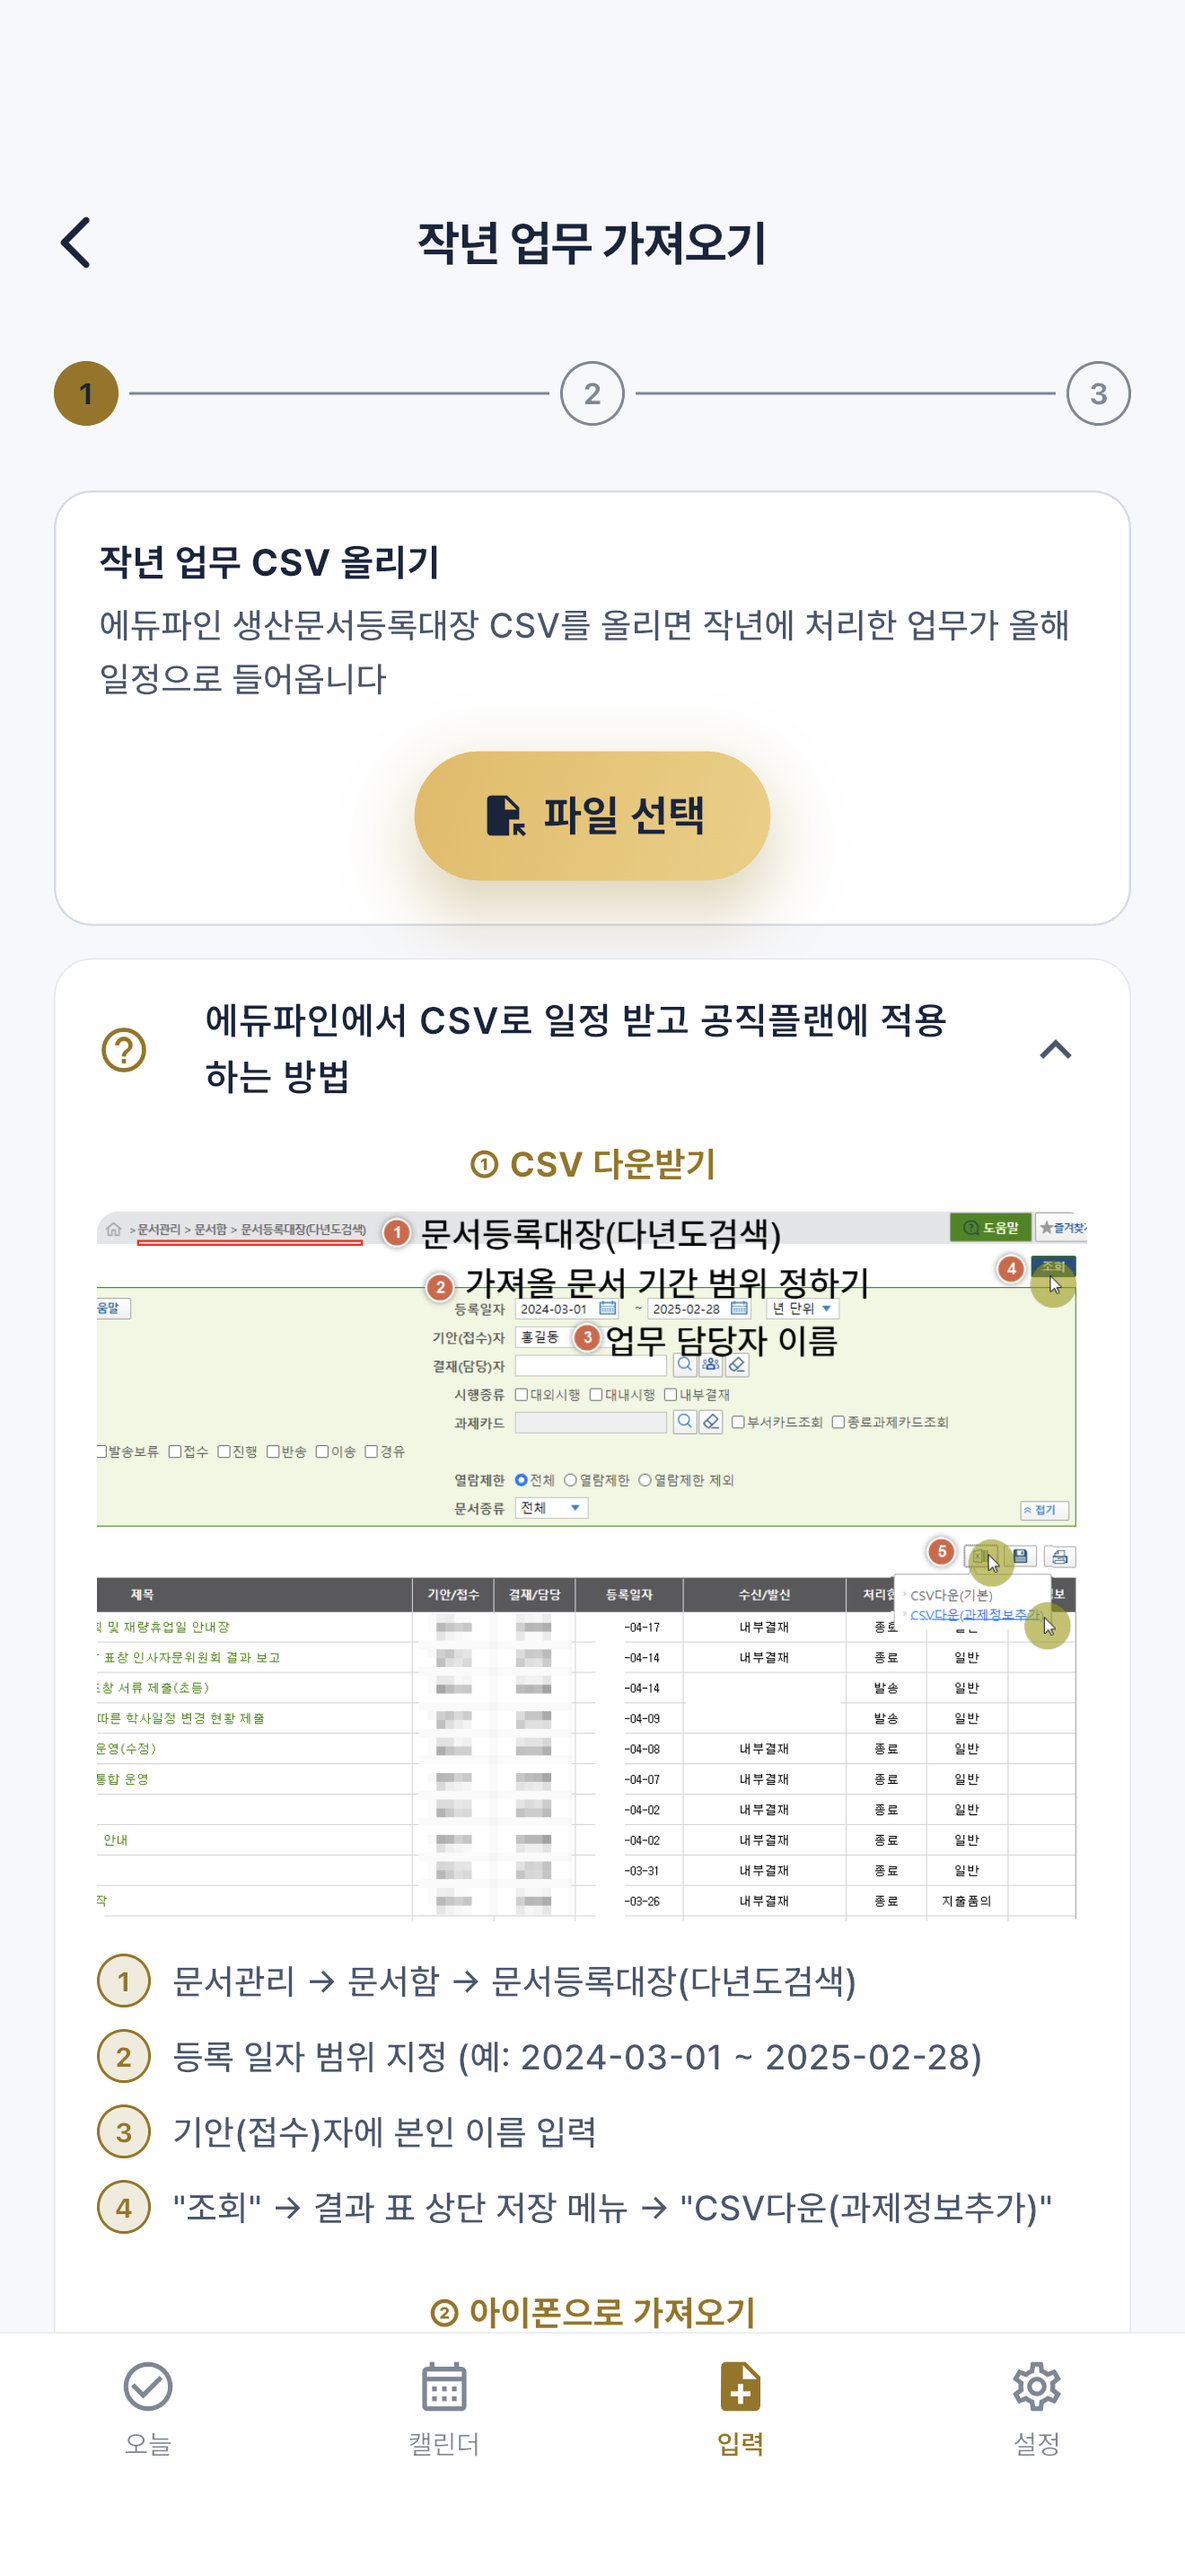
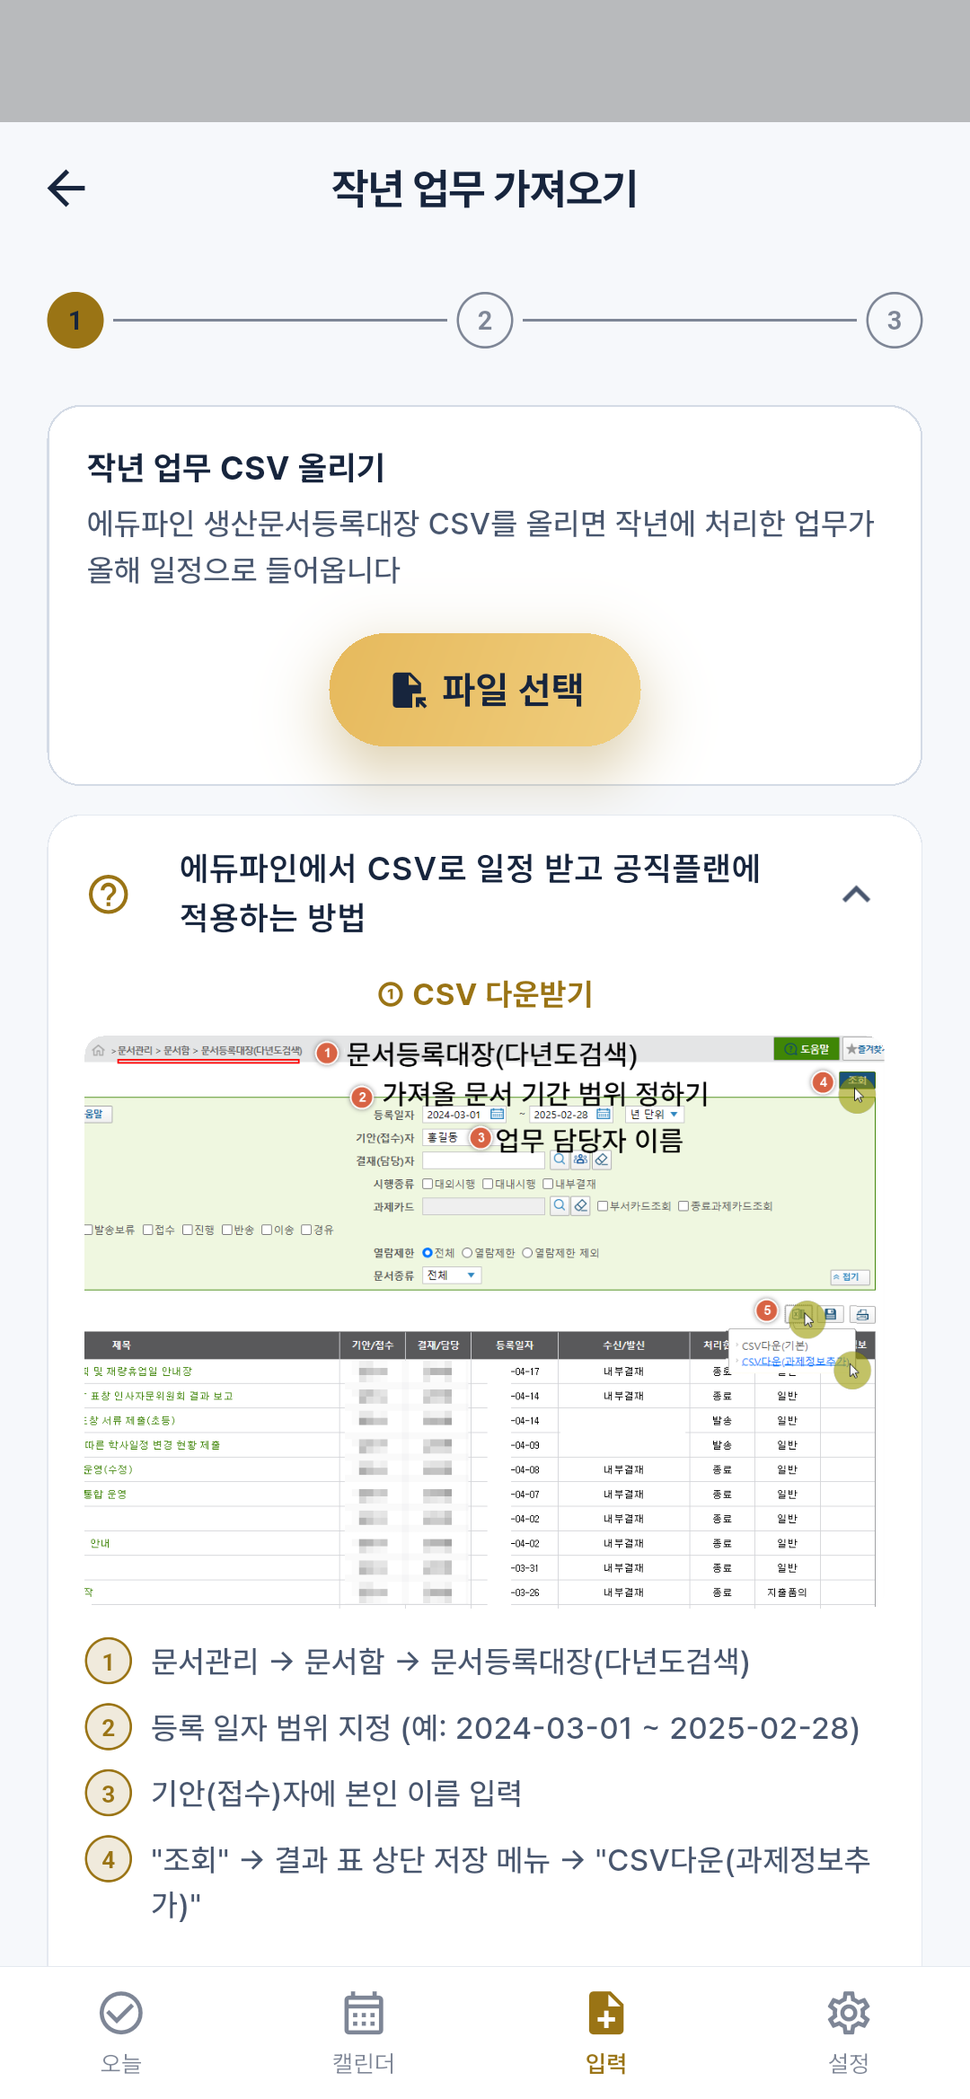
fix(screenshots): 안드로이드에서 촬영이 되게 하고 Play용 6장을 다시 찍는다
콘솔의 스크린샷이 옛 화면이라 다시 찍으려는데, screenshot_test.dart가
안드로이드에서 아예 돌지 않았다. convertFlutterSurfaceToImage()를 화면마다
여섯 번 부르는데 두 번째 호출이 `Surface already converted to an image` assert다.
iOS에서는 no-op이라 여섯 번 불러도 조용해서 오래 숨어 있었다 —
2026-08-01-android-release-design.md가 "이미 Android에서 돈다"고 적어둔 것은
실제로 돌려보지 않은 판단이었다.

prepareSurface()로 한 번만 부르게 잠갔다. 처음 고칠 때 헬퍼를 넣은 뒤 전체
치환을 돌려 헬퍼가 자기 자신을 부르게 만들었고, 71548프레임 Stack Overflow로
드러났다(analyze는 통과한다 — 문법적으로 정상인 재귀다).

Play는 iOS와 규격이 다르다. 최대 변이 최소 변의 2배를 넘을 수 없는데 Pixel 7
캡처는 1080x2337로 2.16배다. 세로를 자르면 헤더나 탭바가 날아가므로 좌우를
가장자리 색(#F6F8FB)으로 채워 9:16으로 맞췄다. 상단 136px 회색 띠(상태바 자리)는
잘라내고, RGBA를 RGB로 바꿨다(Play는 알파 미포함 24비트 PNG를 요구한다).

결과: docs/screenshots/play/ 6장, 1238x2201, 비율 1.778, RGB.
docs/screenshots/의 원본도 이번 안드로이드 촬영본으로 갱신됐다(직전은 8/15 iOS).

런북에 촬영 절차와 후처리 세 가지를 적었다.

Claude-Session: https://claude.ai/code/session_01WXiwhSQvpvhHyVPnwG3QQe

diff --git a/integration_test/screenshot_test.dart b/integration_test/screenshot_test.dart
@@ -121,12 +121,26 @@ void main() {
     );
     await tester.pumpAndSettle(const Duration(seconds: 2));
 
+    // 표면 변환은 **한 번만** 한다.
+    //
+    // Android에서 두 번째 호출은 곧바로 `Surface already converted to an image`
+    // assert다(`_callback_io.dart:70`). iOS에서는 no-op이라 여섯 번 불러도 조용해서
+    // 이 결함이 오래 숨어 있었다 — 안드로이드 촬영을 처음 돌린 2026-08-26에 드러났다.
+    // (`2026-08-01-android-release-design.md`가 "이미 Android에서 돈다"고 적어둔 것은
+    //  틀렸다. 그때 실제로 돌려보지 않았다.)
+    var surfaceReady = false;
+    Future<void> prepareSurface() async {
+      if (surfaceReady) return;
+      await binding.convertFlutterSurfaceToImage();
+      surfaceReady = true;
+    }
+
     // 1. 오늘 탭 (기본 진입) — 스토어에서는 도장이 선명해야 하므로 '흐리게'를 끈다.
     await container
         .read(stampSettingsProvider.notifier)
         .setDimPreviousStamps(false);
     await tester.pumpAndSettle();
-    await binding.convertFlutterSurfaceToImage();
+    await prepareSurface();
     await tester.pumpAndSettle();
     await binding.takeScreenshot('1_today');
 
@@ -138,7 +152,7 @@ void main() {
       ),
     );
     await tester.pumpAndSettle();
-    await binding.convertFlutterSurfaceToImage();
+    await prepareSurface();
     await tester.pumpAndSettle();
     await binding.takeScreenshot('2_calendar');
 
@@ -149,7 +163,7 @@ void main() {
     );
     await tester.tap(scheduleTab.first);
     await tester.pumpAndSettle();
-    await binding.convertFlutterSurfaceToImage();
+    await prepareSurface();
     // convert 직후 한 프레임 더 돌린다 — IntegrationTestWidgetsFlutterBinding은
     // LiveTestWidgetsFlutterBinding이라 **마지막 테스트 포인터 위치에 라임색 조준선**을
     // 그린다. 이 pump가 없으면 그 프레임이 그대로 캡처돼 방금 누른 탭 아이콘 위에
@@ -164,7 +178,7 @@ void main() {
     );
     await tester.tap(settingsTab.first);
     await tester.pumpAndSettle();
-    await binding.convertFlutterSurfaceToImage();
+    await prepareSurface();
     await tester.pumpAndSettle();
     await binding.takeScreenshot('5_settings');
 
@@ -176,7 +190,7 @@ void main() {
     await tester.pumpAndSettle();
     await tester.tap(find.text(ImportStrings.edufineGuideTitle));
     await tester.pumpAndSettle();
-    await binding.convertFlutterSurfaceToImage();
+    await prepareSurface();
     await tester.pumpAndSettle();
     await binding.takeScreenshot('4_import');
 
@@ -217,7 +231,7 @@ void main() {
     for (var i = 0; i < 12; i++) {
       await tester.pump(const Duration(milliseconds: 250));
     }
-    await binding.convertFlutterSurfaceToImage();
+    await prepareSurface();
     await tester.pump(const Duration(milliseconds: 250));
     await binding.takeScreenshot('6_bus');
 
